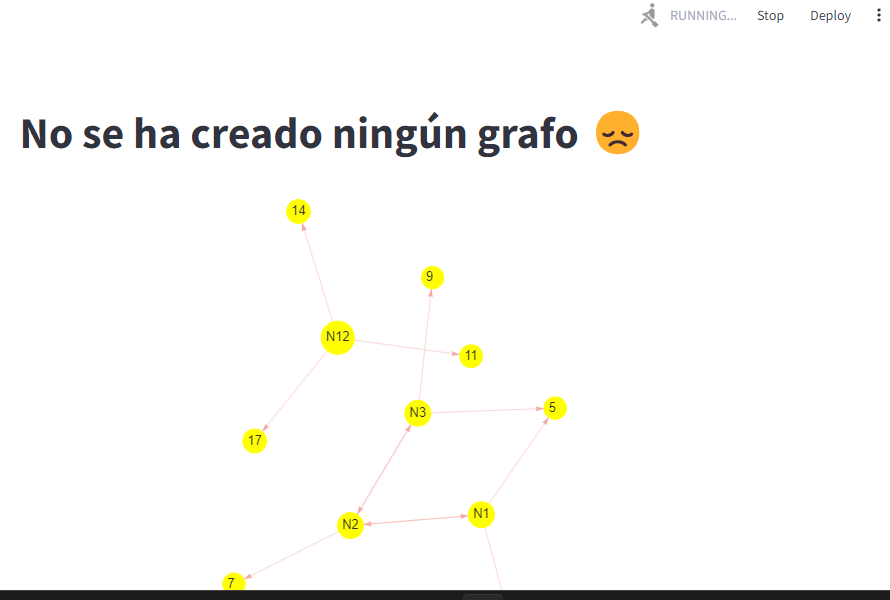
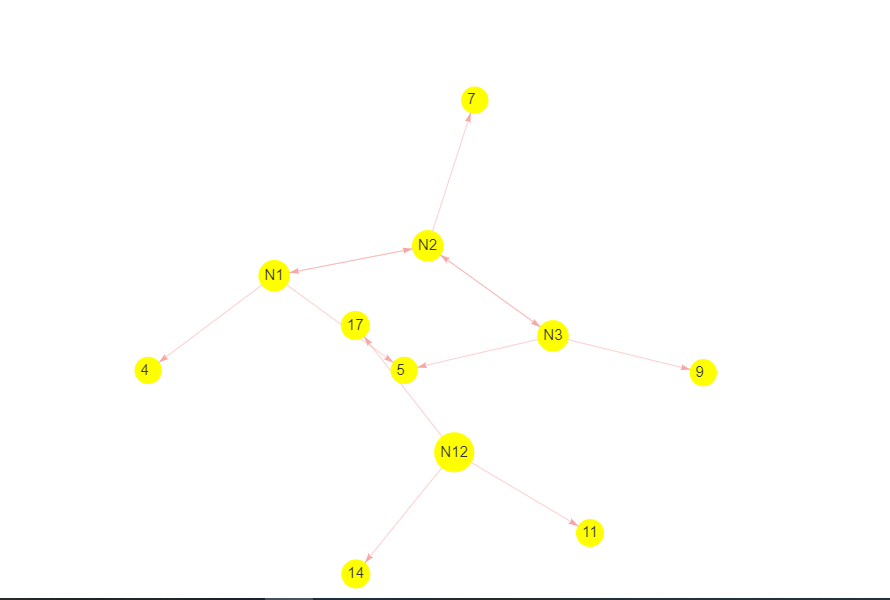
Modificacion funcion exportar V2

diff --git a/main.py b/main.py
@@ -5,7 +5,6 @@ import os
 import psutil
 import time
 import keyboard
-import uuid
 import pyautogui
 import time
 
@@ -50,8 +49,9 @@ class GraphApp:
         elif submenu_opcion == "Nuevo Grafo":
             self.archivo_nuevo_grafo()
         elif submenu_opcion == "Salir":
-            #config = Config(width=750, height=500, directed=True, physics=True, hierarchical=False)
             self.salir()
+        elif submenu_opcion == "Exportar datos":
+            self.archivo_exportar_datos()
             
           
     def editar(self):
@@ -148,16 +148,53 @@ class GraphApp:
             st.header("Grafo")
             grafo_personalizado = agraph(st.session_state.grafo["nodes"], st.session_state.grafo["edges"],
                             st.session_state.grafo["config"])
+            
+    
+    def archivo_exportar_datos(self):
+        #config = Config(width=750, height=500, directed=True, physics=True, hierarchical=False)
+        if st.session_state.grafo["nodes"] is not None:
+            agraph(st.session_state.grafo["nodes"], st.session_state.grafo["edges"],
+                        st.session_state.grafo["config"])
+            
+        # Submenú para elegir entre grafo personalizado y aleatorio
+        subopcion = st.sidebar.radio("Selecciona el formato de exportacion:", ["Imagen", "Excel"])
 
+        if subopcion == "Imagen":
+            self.exportar_datos_imagen()
+        elif subopcion == "Excel":
+            st.sidebar.warning("La opción de excel aún no está implementada.")
+        
+
+    def exportar_datos_imagen(self):
+
+        if st.sidebar.button("Exportar Imagen"):
+            #  Agrega un retraso antes de tomar la captura de pantalla
+            time.sleep(1)
+
+            # Especifica las coordenadas (x, y) del punto de inicio de la región y su ancho y altura
+            x_inicio, y_inicio = 465, 130  # Coordenadas del punto de inicio de la región
+            ancho, altura = 890, 600  # Ancho y altura de la región
+
+            x_fin = x_inicio + ancho
+            y_fin = y_inicio + altura
+
+            # Toma una captura de pantalla de la región especificada
+            captura = pyautogui.screenshot(region=(x_inicio, y_inicio, x_fin - x_inicio, y_fin - y_inicio))
+
+            # Guardar la captura de pantalla como archivo de imagen
+            captura.save("captura_1.png")
+            captura.save("captura_2.jpg")
+
+        
     def salir(self):
         if st.session_state.grafo["nodes"] is not None:
             st.header("Grafo")
             agraph(st.session_state.grafo["nodes"], st.session_state.grafo["edges"],
                         st.session_state.grafo["config"])
 
-        exit_app = st.sidebar.button("Click para salir de la aplicación")
+        exit_app = st.sidebar.button("Oprima para salir")
         if exit_app:
-            time.sleep(3)
+            time.sleep(1)
             keyboard.press_and_release('ctrl+w')
             pid = os.getpid()
             p = psutil.Process(pid)
@@ -196,30 +233,10 @@ class GraphApp:
                             edges.append(Edge(source=idNode, label=edge["weight"], 
                                               target=edge["nodeId"]))
 
-                config = Config(width=600, height=300, directed=True, physics=True, hierarchical=False)
-                
+                config = Config(width=750, height=500, directed=True, physics=True, hierarchical=False)
                 st.session_state.grafo = {"nodes": nodes, "edges": edges, "config": config}
                 agraph(st.session_state.grafo["nodes"], st.session_state.grafo["edges"],
                         st.session_state.grafo["config"])
-                
-
-                # Agrega un retraso antes de tomar la captura de pantalla
-                time.sleep(2)
-
-                # Especifica las coordenadas (x, y) del punto de inicio de la región y su ancho y altura
-                x_inicio, y_inicio = 465, 130  # Coordenadas del punto de inicio de la región
-                ancho, altura = 890, 600  # Ancho y altura de la región
-
-                x_fin = x_inicio + ancho
-                y_fin = y_inicio + altura
-
-                # Toma una captura de pantalla de la región especificada
-                captura = pyautogui.screenshot(region=(x_inicio, y_inicio, x_fin - x_inicio, y_fin - y_inicio))
-
-                # Guardar la captura de pantalla como archivo de imagen
-                captura.save("captura_1.png")
-                captura.save("captura_2.jpg")
-
                 
             except json.JSONDecodeError:
                 st.error("Error al decodificar el archivo JSON. Asegúrate de que el archivo tenga un formato JSON válido.")
